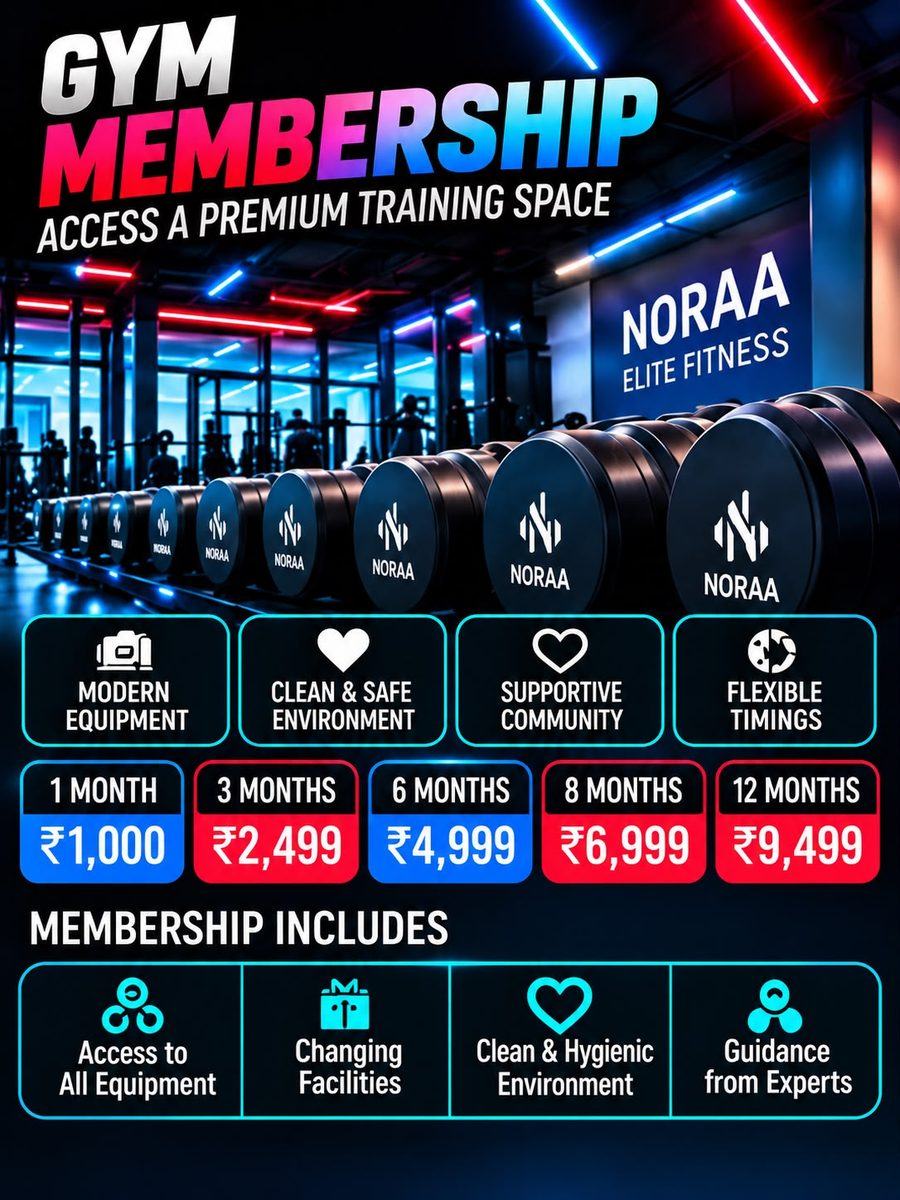
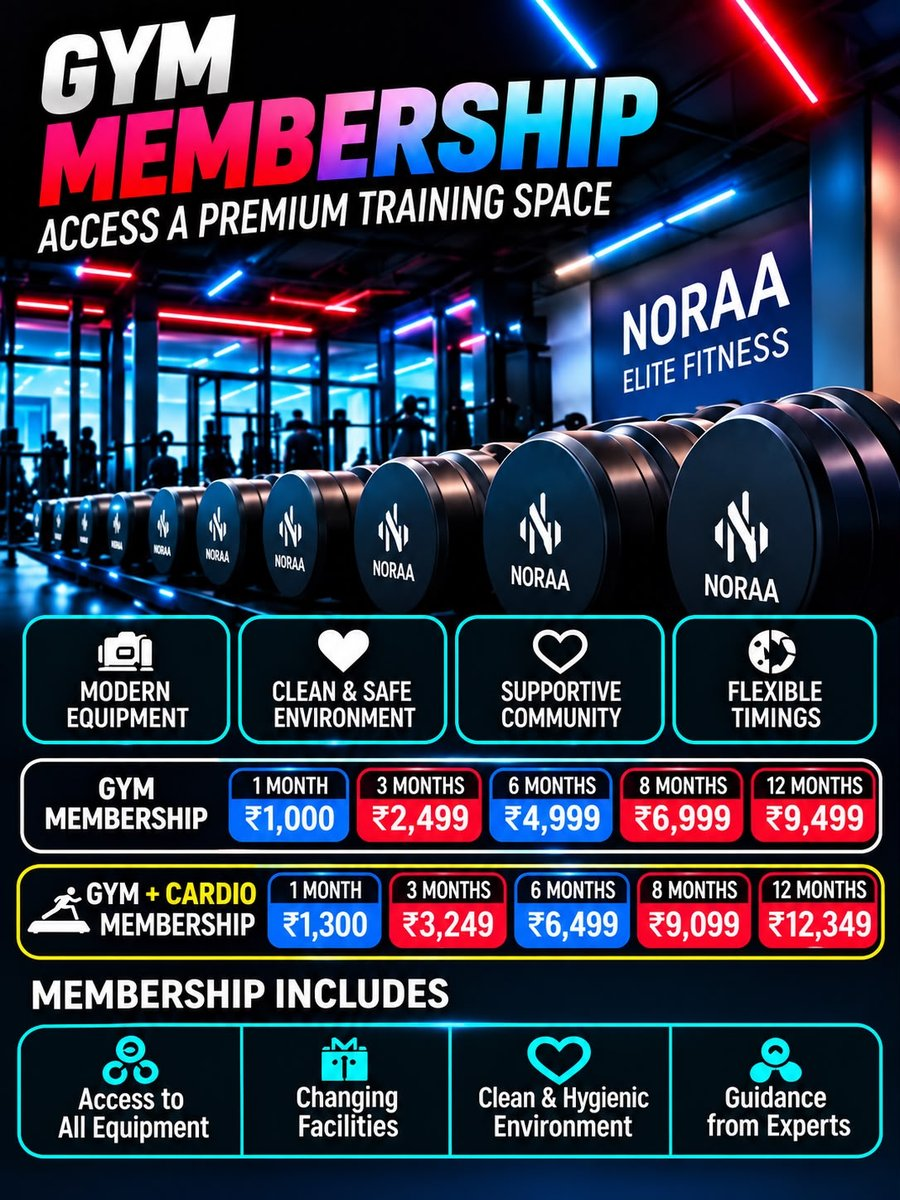
Add Gym + Cardio membership pricing and updated membership flyer

diff --git a/index.html b/index.html
@@ -252,6 +252,17 @@
       <article class="mcard spot" data-reveal style="--d:3"><h3>8 Months</h3><p class="price" data-count="6999" data-prefix="₹">₹6,999</p><p class="per">≈ ₹875 / month</p></article>
       <article class="mcard spot featured glow-border" data-reveal style="--d:4"><span class="badge">Best Value</span><h3>12 Months</h3><p class="price" data-count="9499" data-prefix="₹">₹9,499</p><p class="per">≈ ₹792 / month</p></article>
     </div>
+    <div class="member-sub" data-reveal>
+      <p class="eyebrow">Gym + Cardio Membership</p>
+      <p class="lead center">Full gym access plus the cardio zone</p>
+    </div>
+    <div class="member-grid">
+      <article class="mcard spot" data-reveal style="--d:0"><h3>1 Month</h3><p class="price" data-count="1300" data-prefix="₹">₹1,300</p><p class="per">₹1,300 / month</p></article>
+      <article class="mcard spot" data-reveal style="--d:1"><h3>3 Months</h3><p class="price" data-count="3249" data-prefix="₹">₹3,249</p><p class="per">≈ ₹1,083 / month</p></article>
+      <article class="mcard spot" data-reveal style="--d:2"><h3>6 Months</h3><p class="price" data-count="6499" data-prefix="₹">₹6,499</p><p class="per">≈ ₹1,083 / month</p></article>
+      <article class="mcard spot" data-reveal style="--d:3"><h3>8 Months</h3><p class="price" data-count="9099" data-prefix="₹">₹9,099</p><p class="per">≈ ₹1,137 / month</p></article>
+      <article class="mcard spot featured glow-border" data-reveal style="--d:4"><span class="badge">Best Value</span><h3>12 Months</h3><p class="price" data-count="12349" data-prefix="₹">₹12,349</p><p class="per">≈ ₹1,029 / month</p></article>
+    </div>
     <ul class="includes" data-reveal>
       <li><svg><use href="#i-dumbbell"/></svg>Access to all equipment</li>
       <li><svg><use href="#i-gift"/></svg>Changing facilities</li>
@@ -489,7 +500,7 @@
     <div class="flyer-grid">
       <button type="button" class="flyer" data-lb="flyers" data-src="assets/flyers/01-noraa-elite-fitness.jpg" data-cap="NORAA Elite Fitness — More than a gym" data-reveal style="--d:0"><img src="assets/flyers/01-noraa-elite-fitness.jpg" alt="NORAA Elite Fitness — More than a gym flyer" width="900" height="1200" loading="lazy"><span>NORAA Elite Fitness — More than a gym</span></button>
       <button type="button" class="flyer" data-lb="flyers" data-src="assets/flyers/02-why-choose-noraa.jpg" data-cap="Why choose NORAA Elite Fitness" data-reveal style="--d:1"><img src="assets/flyers/02-why-choose-noraa.jpg" alt="Why choose NORAA Elite Fitness flyer" width="900" height="1200" loading="lazy"><span>Why choose NORAA Elite Fitness</span></button>
-      <button type="button" class="flyer" data-lb="flyers" data-src="assets/flyers/03-gym-membership.jpg" data-cap="Gym membership" data-reveal style="--d:2"><img src="assets/flyers/03-gym-membership.jpg" alt="Gym membership flyer" width="900" height="1200" loading="lazy"><span>Gym membership</span></button>
+      <button type="button" class="flyer" data-lb="flyers" data-src="assets/flyers/03-gym-membership.jpg" data-cap="Gym &amp; Gym + Cardio membership" data-reveal style="--d:2"><img src="assets/flyers/03-gym-membership.jpg" alt="Gym and Gym + Cardio membership flyer" width="900" height="1200" loading="lazy"><span>Gym + Cardio membership</span></button>
       <button type="button" class="flyer" data-lb="flyers" data-src="assets/flyers/04-personal-coaching.jpg" data-cap="Personal coaching programs" data-reveal style="--d:3"><img src="assets/flyers/04-personal-coaching.jpg" alt="Personal coaching programs flyer" width="900" height="1200" loading="lazy"><span>Personal coaching programs</span></button>
       <button type="button" class="flyer" data-lb="flyers" data-src="assets/flyers/05-transformation-packages.jpg" data-cap="General transformation packages" data-reveal style="--d:4"><img src="assets/flyers/05-transformation-packages.jpg" alt="General transformation packages flyer" width="900" height="1200" loading="lazy"><span>General transformation packages</span></button>
       <button type="button" class="flyer" data-lb="flyers" data-src="assets/flyers/06-wedding-transformation.jpg" data-cap="Wedding transformation" data-reveal style="--d:0"><img src="assets/flyers/06-wedding-transformation.jpg" alt="Wedding transformation flyer" width="900" height="1200" loading="lazy"><span>Wedding transformation</span></button>
@@ -523,6 +534,7 @@
         <select name="program" required>
           <option value="" disabled selected>Choose a program</option>
           <option>Gym Membership</option>
+          <option>Gym + Cardio Membership</option>
           <option>Personal Coaching — Offline</option>
           <option>Personal Coaching — Home</option>
           <option>Personal Coaching — Hybrid</option>

diff --git a/css/style.css b/css/style.css
@@ -321,6 +321,8 @@ html.js [data-reveal].in{opacity:1;transform:none}
 .mcard.featured .price{color:#fff}
 .badge{position:absolute;top:14px;left:50%;translate:-50% 0;padding:4px 12px;border-radius:999px;font-size:.66rem;font-weight:800;letter-spacing:.16em;text-transform:uppercase;background:#fff;color:var(--blue2);box-shadow:0 6px 14px -6px rgba(0,0,0,.4);white-space:nowrap}
 .tp .badge{background:var(--blue);color:#fff}
+.member-sub{text-align:center;margin:56px 0 24px}
+.member-sub .lead{margin-top:8px}
 .includes{display:flex;flex-wrap:wrap;justify-content:center;gap:12px;margin-top:40px}
 .includes li{display:flex;align-items:center;gap:10px;padding:12px 20px;border-radius:999px;border:1px solid var(--line);background:#fff;font-size:.9rem;font-weight:600;color:var(--navy)}
 .includes svg{font-size:1.2rem;color:var(--blue)}
